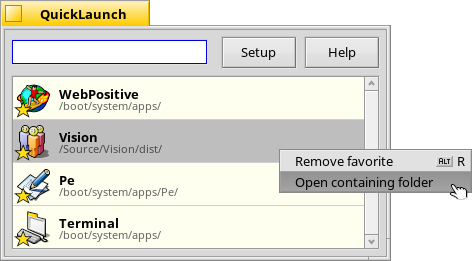
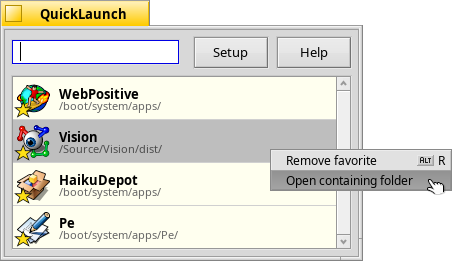
Updated ReadMe + screenshots

diff --git a/ReadMe.html b/ReadMe.html
@@ -90,7 +90,7 @@ h3 {
 <body>
 <div align = "center">
 <img width="64" height="64" src="./images/quicklaunch_icon_64.png" alt="QuickLaunch icon" />
-<p><span style="font-size: 1.5em; font-weight:bold">QuickLaunch v1.3</span><br />
+<p><span style="font-size: 1.5em; font-weight:bold">QuickLaunch</span><br />
 for <a href="https://www.haiku-os.org">Haiku</a><br />
 <i>by Humdinger</i></p>
 <hr />
@@ -100,7 +100,7 @@ for <a href="https://www.haiku-os.org">Haiku</a><br />
 <hr />
 <p><br /></p>
 <p>QuickLaunch is a small launcher tool that helps you to quickly start any installed application.</p>
-<p>Simply start to enter the name of an application and QuickLaunch will find all programs matching these initial letters and show them in a list. You choose an app from that list with the <span class="key">CursorUp/Down</span> keys and launch it by hitting <span class="key">RETURN</span>. <span class="key">ESC</span> quits QuickLaunch.</p>
+<p>Simply start to enter the name of an application and QuickLaunch will find all programs matching these initial letters and show them in a list. You choose an app from that list with the <span class="key">↑</span> <span class="key">↓</span> keys and launch it by hitting <span class="key">RETURN</span>. <span class="key">ESC</span> quits QuickLaunch.</p>
 
 <p>Here's the main window after searching for all applications starting with "me" and behind it the settings window when clicking the <span class="button">Setup</span> button (or pressing <span class="key">ALT</span>+<span class="key">S</span>:</p>
 <div align = "center">
@@ -144,7 +144,6 @@ A right-click on it also offers quick access to your favorites.</p>
 <li><p><span class="menu">Show the version of an application</span> — only really useful when having older and newer versions of an app installed.</p></li>
 <li><p><span class="menu">Show the path to an application</span> —  interesting when you have several copies of an application.</p></li>
 <li><p><span class="menu">Search from start of application name</span> —  when unchecked, finds all applications with the search term anywhere in their name, not only with those initial letters. Same as starting a search with a '*' as first letter.</p></li>
-<li><p><span class="menu">Wait for a second letter before starting the search</span> — probably only useful for slow systems.</p></li>
 <li><p><span class="menu">Remember last search term</span> — starts QuickLaunch with the previous search.</p></li>
 <li><p><span class="menu">Launch applications with a single click</span> —  instead of requiring the usual double-click.</p></li>
 <li><p><span class="menu">Window always on top</span> — the window floats modally in front of all others. Useful if you start a few apps after another and don't want to lose QuickLauch under the newly opening windows.</p></li>
@@ -159,7 +158,7 @@ You can also right-click an app in the main window's result list to add that spe
 <a id="tips" name="tips">Tips &amp; Tricks</a></h2>
 <ul>
 <li><p>Assign a keycombo to QuickLaunch in Haiku's Shortcuts preferences, like <span class="key">OPT</span>+<span class="key">SPACEBAR</span>, for even quicker QuickLaunching apps.</p></li>
-<li><p>Use '*' as wildcards, e.g. "*play" for all apps with "play" in their name. </p></li>
+<li><p>Enter '*' to show a list of all installed applications.</p></li>
 <li><p><span class="key">SHIFT</span>+<span class="key">RETURN</span> will keep the QuickLaunch window open after launching the app.</p></li>
 <li><p><span class="key">CTRL</span>+<span class="key">RETURN</span> will open an app's location in Tracker instead of launching it.</p></li>
 <li><p>These folders are ignored by default:<br />
@@ -199,14 +198,16 @@ Finally, thanks to everyone that contributed translations and bug reports for Qu
 <a id="history" name="history">History</a></h2>
 <p><b>1.3</b> - <i>:</i></p>
 <ul>
-<li>Add option to look for applications with the search term anywhere in their name, not just as their initial letters. Thanks to Kevin Adams for the patch. 
-</li>
+<li>Add option to look for applications with the search term anywhere in their name, not just as their initial letters. Thanks to Kevin Adams for the patch.</li>
+<li>Support localized application names (has to be activated in Locale preferences' 3rd tab).</li>
+<li>Remove "Wait for a second letter before searching". Supporting localized app names needed changes that removed the need to do a query for every entered character. Any previous gain in performance (if there ever was one) would be gone now.</li>
+<li>Remove '*' as a wildcard in application names. As we're not using a query anymore to filter appplications, and supporting wildcards is more trouble than it's worth.<br />
+Enter '*' to get a list of all installed applications.</li>
 </ul>
 
 <p><b>1.2</b> - <i>11-05-2017:</i></p>
 <ul>
-<li>Favorites can now be drag &amp; dropped on apps that accept a program, like LaunchBox - or in fact the ignore list of the Setup window.
-</li>
+<li>Favorites can now be drag &amp; dropped on apps that accept a program, like LaunchBox - or in fact the ignore list of the Setup window.</li>
 <li>Favorites cannot be moved any longer in a result list, only in the favorites list.</li>
 <li>When opening an app's containing folder, scroll to and select the app.</li>
 <li>Fix crash due to a race condition.</li>
